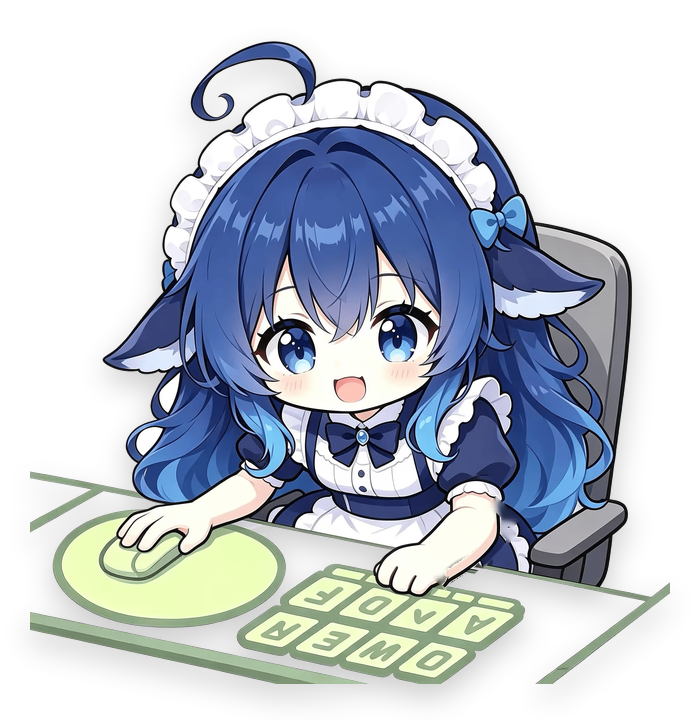
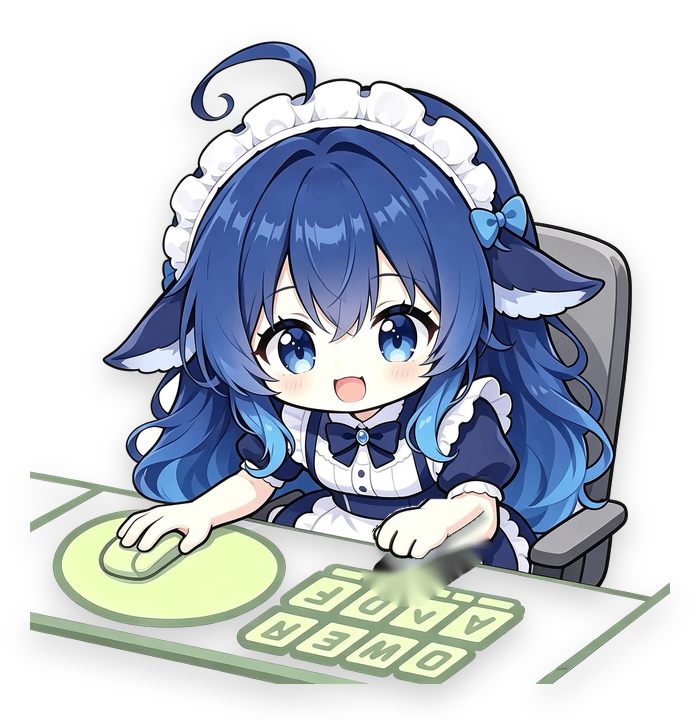
修正手掌图层分割，固定键盘与鼠标垫
改用 GrabCut 提取真实手掌，待机和拖拽不再整体晃动；手部作为独立图层运动，键盘/鼠标垫保持静止。

Changed region(s): [[0.51, 0.6722, 0.75, 0.8556]]

diff --git a/tools/build_assets.py b/tools/build_assets.py
@@ -32,53 +32,87 @@ SHADOW_OFFSET = (0, 12)
 
 SOURCE_FILE = DESIGN / "feiyu.png"
 
-# Hand centres in the 640 px-wide scene, measured from the skin-colour masks.
-HAND_RIGHT_KEY = {"cx": 443, "cy": 510}
-HAND_LEFT_MOUSE = {"cx": 216, "cy": 464}
+# Hand masks are seeded on the actual pale paws (not the warm skin threshold,
+# which finds only the forearms in this illustration).
+HAND_RIGHT_KEY = {
+    "box": (300, 470, 470, 600),
+    "fg": [(355, 535), (380, 540), (400, 535), (415, 520), (425, 505)],
+    "bg": [(310, 585), (330, 585), (350, 590), (455, 585),
+           (450, 555), (465, 530), (310, 490), (455, 500), (325, 555)],
+    "min_y": 500,
+}
+HAND_LEFT_MOUSE = {
+    "box": (60, 430, 235, 525),
+    "fg": [(100, 480), (125, 485), (145, 480),
+           (165, 470), (180, 478), (195, 478)],
+    "bg": [(65, 510), (80, 520), (220, 500), (225, 450),
+           (200, 440), (65, 455)],
+}
 
 
-def split_hand(scene: Image.Image, hand: dict) -> tuple[Image.Image, Image.Image]:
+def split_hand(scene: Image.Image, spec: dict) -> tuple[Image.Image, Image.Image]:
     """Cut the active hand out and reconstruct the surface underneath.
 
-    Returns (hand_sticker, clean_background).  The keyboard/mousepad pixels stay
-    fixed in ``clean_background``; only the sticker animates.
+    The pale paws are segmented with GrabCut inside a hand-specific box.  A
+    simple warm-skin threshold can only find the character's forearms, which is
+    why the paws used to remain painted on the desk.  Returns
+    ``(hand_sticker, clean_background)``; the keyboard/mousepad stays fixed in
+    the background and only the sticker moves.
     """
     arr = np.asarray(scene)
-    rgb = arr[:, :, :3].astype(np.int16)
-    alpha = arr[:, :, 3]
-    r, g, b = rgb[:, :, 0], rgb[:, :, 1], rgb[:, :, 2]
+    x0, y0, x1, y1 = spec["box"]
+    roi_bgr = cv2.cvtColor(arr[y0:y1, x0:x1, :3], cv2.COLOR_RGB2BGR)
+    h, w = roi_bgr.shape[:2]
 
-    skin = (
-        (alpha > 0)
-        & (r > 215) & (g > 185) & (b > 165)
-        & ((r - b) > 12) & ((r - g) > 4) & ((g - b) > 3)
-    )
-    skin = ndimage.binary_opening(skin, iterations=2)
-    labels, _ = ndimage.label(skin)
-    cx, cy = hand["cx"], hand["cy"]
-    component_id = labels[cy, cx]
-    if component_id == 0:
-        ys, xs = np.where(skin)
-        index = int(np.argmin((xs - cx) ** 2 + (ys - cy) ** 2))
-        component_id = labels[ys[index], xs[index]]
-    hand_pixels = labels == component_id
+    mask = np.full((h, w), cv2.GC_PR_BGD, np.uint8)
+    mask[:5, :] = cv2.GC_BGD
+    mask[-5:, :] = cv2.GC_BGD
+    mask[:, :5] = cv2.GC_BGD
+    mask[:, -5:] = cv2.GC_BGD
+    for sx, sy in spec["fg"]:
+        cv2.circle(mask, (sx - x0, sy - y0), 9, cv2.GC_FGD, -1)
+    for sx, sy in spec["bg"]:
+        cv2.circle(mask, (sx - x0, sy - y0), 9, cv2.GC_BGD, -1)
+    bgd = np.zeros((1, 65), np.float64)
+    fgd = np.zeros((1, 65), np.float64)
+    cv2.grabCut(roi_bgr, mask, None, bgd, fgd, 10, cv2.GC_INIT_WITH_MASK)
 
-    nearby = ndimage.binary_dilation(hand_pixels, iterations=12)
-    dark_outline = (alpha > 0) & (np.max(arr[:, :, :3], axis=2) < 130)
-    mask = hand_pixels | (nearby & dark_outline)
-    mask = ndimage.binary_closing(mask, iterations=2)
-    mask = ndimage.binary_fill_holes(mask)
-    mask = ndimage.binary_dilation(mask, iterations=1)
+    hand = ((mask == cv2.GC_FGD) | (mask == cv2.GC_PR_FGD)).astype(np.uint8)
+    roi_rgb = cv2.cvtColor(roi_bgr, cv2.COLOR_BGR2RGB).astype(np.int16)
+    r, g, b = roi_rgb[:, :, 0], roi_rgb[:, :, 1], roi_rgb[:, :, 2]
+    # Do not let the blue sleeve or the green pad/keys travel with the paw.
+    blue = (b > r + 16) & (b > g + 6)
+    green = (g > r + 4) & (g > b + 6) & (g > 80)
+    hand[blue | green] = 0
 
-    # The sticker keeps only the hand + its ink outline.
-    sticker_alpha = Image.fromarray((mask.astype(np.uint8) * 255))
-    sticker_alpha = sticker_alpha.filter(ImageFilter.GaussianBlur(0.4))
+    min_y = spec.get("min_y")
+    if min_y is not None and min_y > y0:
+        hand[: min_y - y0, :] = 0
+
+    labels, _ = ndimage.label(hand, structure=np.ones((3, 3)))
+    keep = np.zeros_like(hand)
+    for sx, sy in spec["fg"]:
+        lid = labels[sy - y0, sx - x0]
+        if lid:
+            keep[labels == lid] = 1
+    if not keep.any():
+        keep = (labels == np.argmax(np.bincount(labels.ravel())[1:]) + 1).astype(np.uint8)
+    hand = keep
+    hand = ndimage.binary_closing(hand, iterations=2)
+    hand = ndimage.binary_dilation(hand, iterations=1).astype(np.uint8)
+
+    full = np.zeros(arr.shape[:2], np.uint8)
+    full[y0:y1, x0:x1] = hand
+
+    # The sticker keeps only the paw + its ink outline.
+    sticker_alpha = Image.fromarray((full * 255).astype(np.uint8))
+    sticker_alpha = sticker_alpha.filter(ImageFilter.GaussianBlur(0.55))
     sticker = scene.copy()
     sticker.putalpha(sticker_alpha)
 
-    # Remove the hand and its contact shadow from the background, then inpaint
-    # the keyboard/mousepad back into place.  This layer never moves.
-    hole = ndimage.binary_dilation(mask, iterations=10).astype(np.uint8) * 255
+    # Remove the paw and its contact shadow from the desk, then inpaint the
+    # keyboard/mousepad back into place.  This layer never moves.
+    hole = ndimage.binary_dilation(full, iterations=12).astype(np.uint8) * 255
     bgr = cv2.cvtColor(arr[:, :, :3], cv2.COLOR_RGB2BGR)
     inpainted = cv2.inpaint(bgr, hole, 9, cv2.INPAINT_TELEA)
     clean = np.dstack([
@@ -91,6 +125,16 @@ def split_hand(scene: Image.Image, hand: dict) -> tuple[Image.Image, Image.Image
 def compose_hand(base: Image.Image, sticker: Image.Image,
                  dx: float, dy: float) -> Image.Image:
     composed = base.copy()
+    distance = (dx * dx + dy * dy) ** 0.5
+    if distance > 4:
+        # A soft contact shadow that travels with the hand makes the depth
+        # separation readable even at 100x100.
+        strength = min(0.42, 0.10 + distance / 190.0)
+        shadow_alpha = sticker.getchannel("A").filter(ImageFilter.GaussianBlur(3))
+        shadow_alpha = shadow_alpha.point(lambda v: int(v * strength))
+        shadow = Image.new("RGBA", base.size, (15, 32, 45, 255))
+        shadow.putalpha(shadow_alpha)
+        composed.alpha_composite(shadow, (round(dx + 4), round(dy + 7)))
     layer = Image.new("RGBA", base.size, (0, 0, 0, 0))
     layer.alpha_composite(sticker, (round(dx), round(dy)))
     composed.alpha_composite(layer)
@@ -280,31 +324,24 @@ def main() -> None:
     mouse_sticker, mouse_base = split_hand(scene, HAND_LEFT_MOUSE)
 
     specs = {
-        "idle": (scene, [
-            {"dy": -1}, {"dy": -2, "sy": 1.002}, {"dy": -3, "sy": 1.003},
-            {"dy": -2, "sy": 1.002}, {"dy": -1}, {"dy": 0},
-            {"dy": 1, "sy": 0.999}, {"dy": 0, "sy": 0.999},
-        ]),
-        "drag": (scene, [
-            {"dx": 0, "dy": -4, "angle": -2.4},
-            {"dx": 1, "dy": -5, "angle": -1.1},
-            {"dx": 0, "dy": -5, "angle": 1.1},
-            {"dx": -1, "dy": -4, "angle": 2.4},
-        ]),
+        # The desk, keyboard and mousepad never move.  Idle is a single static
+        # plate; all visible life comes from the independently layered hands.
+        "idle": (scene, [{}]),
+        "drag": (scene, [{}]),
     }
 
     for name, (state_scene, params) in specs.items():
         build_state(name, state_scene, params)
 
     # The keyboard and mousepad stay byte-for-byte identical across these
-    # frames; only the cut-out hand moves.
+    # frames; only the cut-out paw moves.
     build_hand_state("mouse", mouse_base, mouse_sticker, [
-        (0, 0), (20, -4), (32, 1), (20, 6),
-        (0, 1), (-20, -6), (-32, 0), (-20, 5),
+        (0, 0), (24, -3), (45, 1), (55, 5),
+        (35, 0), (0, -4), (-36, 1), (-52, 5),
     ])
     build_hand_state("key", key_base, key_sticker, [
-        (0, 0), (-3, -14), (0, -30), (2, -40),
-        (0, 7), (0, 0), (-2, -9), (0, 0),
+        (0, 0), (-4, -16), (0, -38), (2, -62),
+        (0, -36), (-2, -12), (0, 4), (0, 0),
     ])
 
     counts = {name: len(params) for name, (_, params) in specs.items()}

diff --git a/README.md b/README.md
@@ -4,8 +4,8 @@
 
 ## 已实现
 
-- **角色**：使用 `design/feiyu.png` 作为唯一原画，去白底后生成 28 帧透明动画；桌宠窗口为 100×100。
-- **鼠标/键盘活动感知**：只统计“有活动”，不保存按键内容；鼠标移动时左手会在鼠标垫上滑动，键盘敲击时右手会抬起再敲下；键盘和鼠标垫保持静止；静止回到 `idle`，拖拽显示 `drag`。
+- **角色**：使用 `design/feiyu.png` 作为唯一原画，去白底后生成 18 帧透明动画；桌宠窗口为 100×100。
+- **鼠标/键盘活动感知**：只统计“有活动”，不保存按键内容；鼠标移动时左手会在鼠标垫上滑动，键盘敲击时右手会抬起再敲下；待机和拖拽时整张桌子不动，键盘和鼠标垫始终固定，只有独立的手部图层运动。
 - **左键拖拽**：按住并移动即可拖走桌宠。
 - **左键短按**：升起 `deep` 气泡。
 - **五次短按**：1.5 秒内累计五次短按，照样弹出 `deep` 气泡（无音效）。
